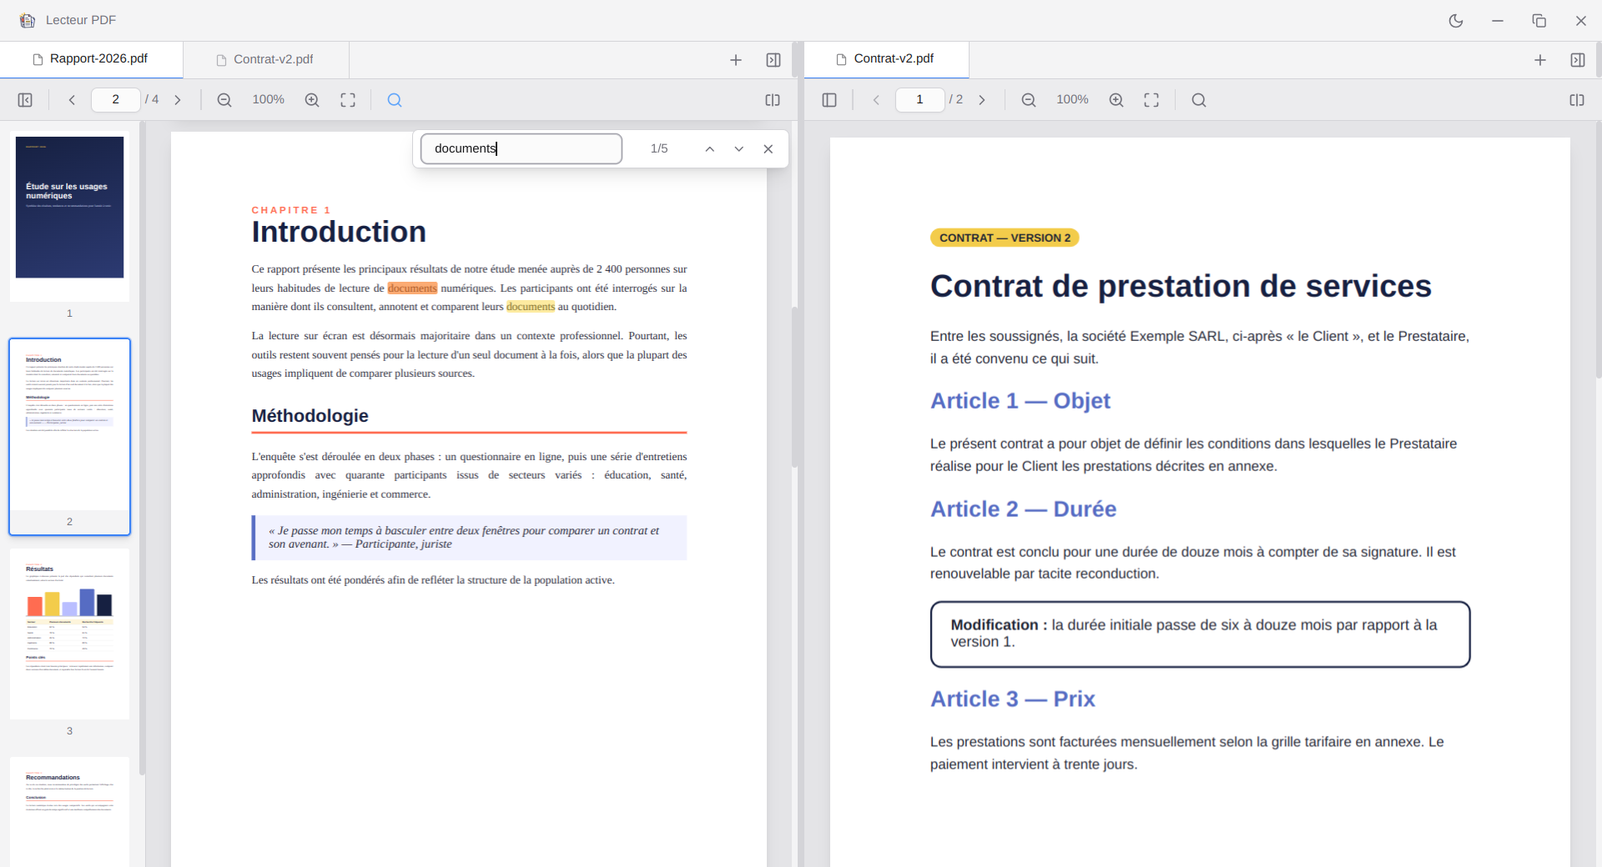
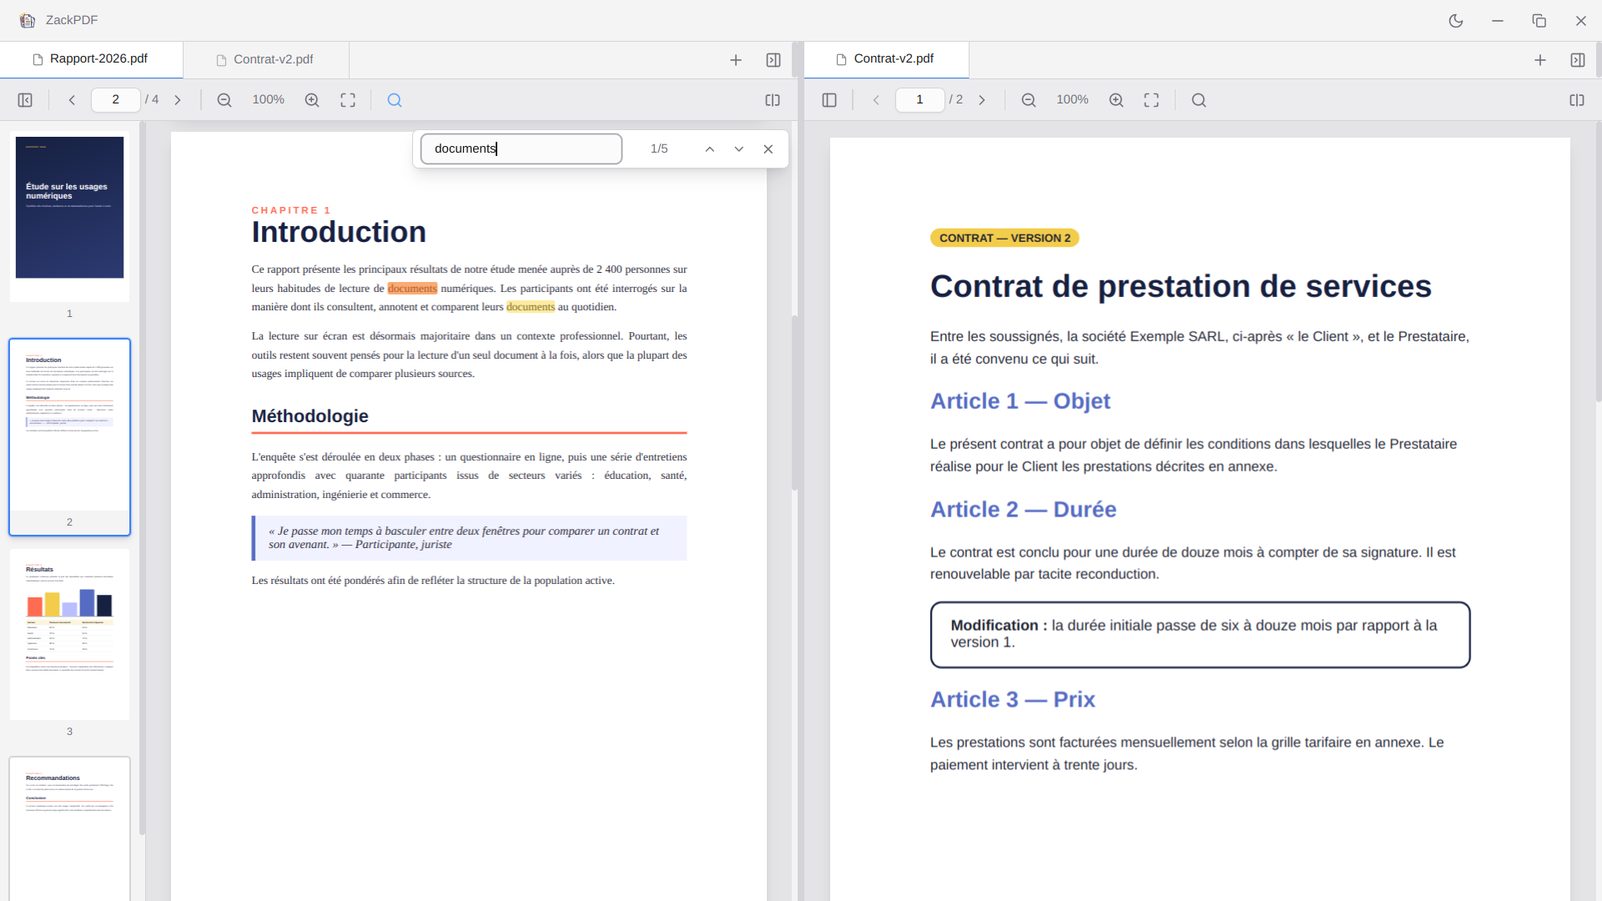
feat: renommer l'application en ZackPDF
Nom affiché, paquets (ZackPDF-*.exe/.dmg/.AppImage, zackpdf_*.deb,
zackpdf.*.rpm), identifiant d'application, site, documentation et
adresses du dépôt. Nouvelles captures d'écran. Version 1.0.1.

diff --git a/website/index.html b/website/index.html
@@ -3,11 +3,11 @@
 <head>
   <meta charset="utf-8">
   <meta name="viewport" content="width=device-width, initial-scale=1">
-  <title>Lecteur PDF — gratuit et open source</title>
-  <meta name="description" content="Lecteur PDF gratuit et open source pour Windows, macOS et Linux. Onglets, panneaux côte à côte, recherche dans tout le document et reprise de lecture.">
-  <meta property="og:title" content="Lecteur PDF — gratuit et open source">
+  <title>ZackPDF — lecteur PDF gratuit et open source</title>
+  <meta name="description" content="ZackPDF, le lecteur PDF gratuit et open source pour Windows, macOS et Linux. Onglets, panneaux côte à côte, recherche dans tout le document et reprise de lecture.">
+  <meta property="og:title" content="ZackPDF — lecteur PDF gratuit et open source">
   <meta property="og:description" content="Lisez et comparez vos PDF côte à côte. Gratuit, sans compte, pour Windows, macOS et Linux.">
-  <meta property="og:image" content="https://codebydarknet.github.io/lecteur-pdf/assets/capture-sombre.png">
+  <meta property="og:image" content="https://codebydarknet.github.io/zackpdf/assets/capture-sombre.png">
   <meta property="og:type" content="website">
   <link rel="icon" type="image/svg+xml" href="assets/logo.svg">
   <link rel="icon" type="image/png" sizes="32x32" href="assets/favicon-32.png">
@@ -166,11 +166,11 @@
 <body>
   <nav>
     <div class="wrap">
-      <a class="brand" href="#"><img src="assets/logo.svg" alt="">Lecteur PDF</a>
+      <a class="brand" href="#"><img src="assets/logo.svg" alt="">ZackPDF</a>
       <div class="links">
         <a class="optional" href="#fonctionnalites">Fonctionnalités</a>
         <a class="optional" href="#faq">FAQ</a>
-        <a href="https://github.com/codeByDarknet/lecteur-pdf">GitHub</a>
+        <a href="https://github.com/codeByDarknet/zackpdf">GitHub</a>
         <a class="btn btn-primary" style="padding:8px 16px;font-size:14px" href="#telecharger">Télécharger</a>
       </div>
     </div>
@@ -178,7 +178,7 @@
 
   <header class="hero">
     <div class="wrap">
-      <img class="logo" src="assets/logo.svg" alt="Logo de Lecteur PDF">
+      <img class="logo" src="assets/logo.svg" alt="Logo de ZackPDF">
       <span class="pill">Gratuit · Open source · Sans compte</span>
       <h1>Lisez vos PDF,<br><mark>côte à côte</mark>.</h1>
       <p class="lead">Un lecteur PDF rapide et léger, avec des onglets, des panneaux multiples et la recherche dans tout le document. Pour Windows, macOS et Linux.</p>
@@ -187,7 +187,7 @@
           <svg viewBox="0 0 24 24" fill="none" stroke="currentColor" stroke-width="2.5" stroke-linecap="round" stroke-linejoin="round"><path d="M12 3v12"/><path d="m7 10 5 5 5-5"/><path d="M5 21h14"/></svg>
           <span id="main-download-label">Télécharger gratuitement</span>
         </a>
-        <a class="btn btn-ghost" href="https://github.com/codeByDarknet/lecteur-pdf">
+        <a class="btn btn-ghost" href="https://github.com/codeByDarknet/zackpdf">
           <svg viewBox="0 0 24 24" fill="currentColor"><path d="M12 .5a11.5 11.5 0 0 0-3.64 22.41c.58.1.79-.25.79-.56v-2c-3.2.7-3.88-1.37-3.88-1.37-.53-1.33-1.28-1.69-1.28-1.69-1.05-.71.08-.7.08-.7 1.16.08 1.77 1.19 1.77 1.19 1.03 1.77 2.7 1.26 3.36.96.1-.75.4-1.26.73-1.55-2.55-.29-5.24-1.28-5.24-5.69 0-1.26.45-2.29 1.19-3.1-.12-.29-.52-1.46.11-3.05 0 0 .97-.31 3.17 1.18a11 11 0 0 1 5.77 0c2.2-1.49 3.17-1.18 3.17-1.18.63 1.59.23 2.76.11 3.05.74.81 1.19 1.84 1.19 3.1 0 4.42-2.7 5.39-5.26 5.68.41.36.78 1.06.78 2.14v3.17c0 .31.21.67.8.56A11.5 11.5 0 0 0 12 .5Z"/></svg>
           Voir le code source
         </a>
@@ -195,8 +195,8 @@
       <p class="version" id="version">Windows · macOS · Linux</p>
 
       <div class="shot">
-        <img class="dark" src="assets/capture-sombre.png" width="1920" height="1040" alt="Lecteur PDF en thème sombre : deux documents affichés côte à côte avec les miniatures">
-        <img class="light" src="assets/capture-clair.png" width="1920" height="1040" alt="Lecteur PDF en thème clair : recherche d'un mot surligné dans le document">
+        <img class="dark" src="assets/capture-sombre.png" width="1920" height="1080" alt="ZackPDF en thème sombre : deux documents affichés côte à côte avec les miniatures">
+        <img class="light" src="assets/capture-clair.png" width="1920" height="1080" alt="ZackPDF en thème clair : recherche d'un mot surligné dans le document">
       </div>
     </div>
   </header>
@@ -270,11 +270,11 @@
             <svg viewBox="0 0 24 24" fill="currentColor"><path d="M3 5.5 10 4.5v7H3zM11 4.3 21 3v8.5H11zM3 12.5h7v7l-7-1zM11 12.5h10V21l-10-1.4z"/></svg>
             <h3>Windows</h3><span class="badge">Votre système</span>
           </header>
-          <a class="dl" data-file="Lecteur-PDF-Windows-Setup.exe">
+          <a class="dl" data-file="ZackPDF-Windows-Setup.exe">
             <div><strong>Installateur</strong><span>Windows 10 et 11 · 64 bits · .exe</span></div>
             <svg viewBox="0 0 24 24" fill="none" stroke="currentColor" stroke-width="2.5" stroke-linecap="round" stroke-linejoin="round"><path d="M12 3v12"/><path d="m7 10 5 5 5-5"/><path d="M5 21h14"/></svg>
           </a>
-          <a class="dl" data-file="Lecteur-PDF-Windows-Portable.exe">
+          <a class="dl" data-file="ZackPDF-Windows-Portable.exe">
             <div><strong>Version portable</strong><span>Sans installation, à lancer depuis une clé USB</span></div>
             <svg viewBox="0 0 24 24" fill="none" stroke="currentColor" stroke-width="2.5" stroke-linecap="round" stroke-linejoin="round"><path d="M12 3v12"/><path d="m7 10 5 5 5-5"/><path d="M5 21h14"/></svg>
           </a>
@@ -286,15 +286,15 @@
             <svg viewBox="0 0 24 24" fill="currentColor"><path d="M16.4 12.6c0-2.6 2.1-3.8 2.2-3.9-1.2-1.8-3.1-2-3.7-2-1.6-.2-3.1.9-3.9.9-.8 0-2-.9-3.4-.9-1.7 0-3.3 1-4.2 2.6-1.8 3.1-.5 7.7 1.3 10.2.9 1.2 1.9 2.6 3.2 2.6 1.3-.1 1.8-.8 3.3-.8 1.6 0 2 .8 3.4.8 1.4 0 2.3-1.3 3.1-2.5 1-1.4 1.4-2.8 1.4-2.9 0 0-2.7-1-2.7-4.1ZM13.9 4.9c.7-.9 1.2-2 1.1-3.2-1 0-2.3.7-3 1.6-.7.8-1.2 2-1.1 3.1 1.1.1 2.3-.6 3-1.5Z"/></svg>
             <h3>macOS</h3><span class="badge">Votre système</span>
           </header>
-          <a class="dl" data-file="Lecteur-PDF-macOS-arm64.dmg">
+          <a class="dl" data-file="ZackPDF-macOS-arm64.dmg">
             <div><strong>Apple Silicon</strong><span>Mac M1, M2, M3, M4… · .dmg</span></div>
             <svg viewBox="0 0 24 24" fill="none" stroke="currentColor" stroke-width="2.5" stroke-linecap="round" stroke-linejoin="round"><path d="M12 3v12"/><path d="m7 10 5 5 5-5"/><path d="M5 21h14"/></svg>
           </a>
-          <a class="dl" data-file="Lecteur-PDF-macOS-x64.dmg">
+          <a class="dl" data-file="ZackPDF-macOS-x64.dmg">
             <div><strong>Intel</strong><span>Mac avec processeur Intel · .dmg</span></div>
             <svg viewBox="0 0 24 24" fill="none" stroke="currentColor" stroke-width="2.5" stroke-linecap="round" stroke-linejoin="round"><path d="M12 3v12"/><path d="m7 10 5 5 5-5"/><path d="M5 21h14"/></svg>
           </a>
-          <p class="hint">L'application n'est pas signée par Apple. Au premier lancement : clic droit sur l'app → <b>Ouvrir</b>. Si macOS indique qu'elle est endommagée, lancez dans le Terminal : <code>xattr -cr "/Applications/Lecteur PDF.app"</code></p>
+          <p class="hint">L'application n'est pas signée par Apple. Au premier lancement : clic droit sur l'app → <b>Ouvrir</b>. Si macOS indique qu'elle est endommagée, lancez dans le Terminal : <code>xattr -cr "/Applications/ZackPDF.app"</code></p>
         </article>
 
         <article class="platform" data-os="linux">
@@ -302,26 +302,26 @@
             <svg viewBox="0 0 24 24" fill="currentColor"><path d="M12 2c-2.2 0-3.6 1.8-3.6 4.3 0 1.3.2 2.2-.5 3.4-.9 1.4-2.6 3.6-2.9 6-.2 1.3.2 2.2.8 2.7-.4.5-1 1.2-.6 1.9.5.9 2.4.4 3.6.9 1.2.5 2.7.9 3.6-.2h.4c.9 1.1 2.4.7 3.6.2 1.2-.5 3.1 0 3.6-.9.4-.7-.2-1.4-.6-1.9.6-.5 1-1.4.8-2.7-.3-2.4-2-4.6-2.9-6-.7-1.2-.5-2.1-.5-3.4C15.6 3.8 14.2 2 12 2Zm-1.5 4.2c.4 0 .7.5.7 1.1 0 .6-.3 1.1-.7 1.1s-.7-.5-.7-1.1c0-.6.3-1.1.7-1.1Zm3 0c.4 0 .7.5.7 1.1 0 .6-.3 1.1-.7 1.1s-.7-.5-.7-1.1c0-.6.3-1.1.7-1.1ZM12 9.3c.9 0 2.2.6 2.2 1.1 0 .4-1.3 1.2-2.2 1.2s-2.2-.8-2.2-1.2c0-.5 1.3-1.1 2.2-1.1Z"/></svg>
             <h3>Linux</h3><span class="badge">Votre système</span>
           </header>
-          <a class="dl" data-file="Lecteur-PDF-Linux-x86_64.AppImage">
+          <a class="dl" data-file="ZackPDF-Linux-x86_64.AppImage">
             <div><strong>AppImage</strong><span>Toutes les distributions · sans installation</span></div>
             <svg viewBox="0 0 24 24" fill="none" stroke="currentColor" stroke-width="2.5" stroke-linecap="round" stroke-linejoin="round"><path d="M12 3v12"/><path d="m7 10 5 5 5-5"/><path d="M5 21h14"/></svg>
           </a>
-          <a class="dl" data-file="lecteur-pdf_amd64.deb">
+          <a class="dl" data-file="zackpdf_amd64.deb">
             <div><strong>.deb</strong><span>Ubuntu, Debian, Linux Mint, Pop!_OS…</span></div>
             <svg viewBox="0 0 24 24" fill="none" stroke="currentColor" stroke-width="2.5" stroke-linecap="round" stroke-linejoin="round"><path d="M12 3v12"/><path d="m7 10 5 5 5-5"/><path d="M5 21h14"/></svg>
           </a>
-          <a class="dl" data-file="lecteur-pdf.x86_64.rpm">
+          <a class="dl" data-file="zackpdf.x86_64.rpm">
             <div><strong>.rpm</strong><span>Fedora, openSUSE, RHEL…</span></div>
             <svg viewBox="0 0 24 24" fill="none" stroke="currentColor" stroke-width="2.5" stroke-linecap="round" stroke-linejoin="round"><path d="M12 3v12"/><path d="m7 10 5 5 5-5"/><path d="M5 21h14"/></svg>
           </a>
-          <a class="dl" data-file="Lecteur-PDF-Linux-x64.tar.gz">
+          <a class="dl" data-file="ZackPDF-Linux-x64.tar.gz">
             <div><strong>.tar.gz</strong><span>Archive pour Arch et les autres distributions</span></div>
             <svg viewBox="0 0 24 24" fill="none" stroke="currentColor" stroke-width="2.5" stroke-linecap="round" stroke-linejoin="round"><path d="M12 3v12"/><path d="m7 10 5 5 5-5"/><path d="M5 21h14"/></svg>
           </a>
-          <p class="hint">AppImage : rendez le fichier exécutable avec <code>chmod +x Lecteur-PDF-Linux-x86_64.AppImage</code> puis lancez-le.</p>
+          <p class="hint">AppImage : rendez le fichier exécutable avec <code>chmod +x ZackPDF-Linux-x86_64.AppImage</code> puis lancez-le.</p>
         </article>
       </div>
-      <p class="all-releases">Toutes les versions et les sommes de contrôle SHA-256 sont sur la <a href="https://github.com/codeByDarknet/lecteur-pdf/releases">page des releases GitHub</a>.</p>
+      <p class="all-releases">Toutes les versions et les sommes de contrôle SHA-256 sont sur la <a href="https://github.com/codeByDarknet/zackpdf/releases">page des releases GitHub</a>.</p>
     </div>
   </section>
 
@@ -330,15 +330,15 @@
       <div>
         <span class="pill">Licence MIT</span>
         <h2>Open source, pour de vrai</h2>
-        <p>Le code de Lecteur PDF est public sur GitHub. Vous pouvez le lire, le modifier, l'améliorer et le redistribuer librement. Vos documents restent sur votre ordinateur : l'application ne collecte rien et n'envoie rien.</p>
+        <p>Le code de ZackPDF est public sur GitHub. Vous pouvez le lire, le modifier, l'améliorer et le redistribuer librement. Vos documents restent sur votre ordinateur : l'application ne collecte rien et n'envoie rien.</p>
         <div class="cta" style="justify-content:flex-start;margin-top:26px">
-          <a class="btn btn-primary" href="https://github.com/codeByDarknet/lecteur-pdf">Contribuer sur GitHub</a>
-          <a class="btn btn-ghost" href="https://github.com/codeByDarknet/lecteur-pdf/issues/new/choose">Signaler un bug</a>
+          <a class="btn btn-primary" href="https://github.com/codeByDarknet/zackpdf">Contribuer sur GitHub</a>
+          <a class="btn btn-ghost" href="https://github.com/codeByDarknet/zackpdf/issues/new/choose">Signaler un bug</a>
         </div>
       </div>
       <pre class="terminal"><span class="c"># Lancer le projet en local</span>
-<span class="p">$</span> git clone https://github.com/codeByDarknet/lecteur-pdf
-<span class="p">$</span> cd lecteur-pdf
+<span class="p">$</span> git clone https://github.com/codeByDarknet/zackpdf
+<span class="p">$</span> cd zackpdf
 <span class="p">$</span> npm install
 <span class="p">$</span> npm run dev</pre>
     </div>
@@ -350,7 +350,7 @@
       <div class="faq">
         <details>
           <summary>Est-ce vraiment gratuit ?</summary>
-          <p>Oui. Lecteur PDF est gratuit, sans publicité, sans abonnement et sans compte. Le code est sous licence MIT.</p>
+          <p>Oui. ZackPDF est gratuit, sans publicité, sans abonnement et sans compte. Le code est sous licence MIT.</p>
         </details>
         <details>
           <summary>Mes documents sont-ils envoyés quelque part ?</summary>
@@ -358,7 +358,7 @@
         </details>
         <details>
           <summary>Comment en faire mon lecteur PDF par défaut ?</summary>
-          <p>Après l'installation, faites un clic droit sur un PDF → <b>Ouvrir avec</b> → <b>Lecteur PDF</b>, et cochez l'option pour toujours l'utiliser. Sous Windows, passez par <b>Paramètres → Applications → Applications par défaut</b>.</p>
+          <p>Après l'installation, faites un clic droit sur un PDF → <b>Ouvrir avec</b> → <b>ZackPDF</b>, et cochez l'option pour toujours l'utiliser. Sous Windows, passez par <b>Paramètres → Applications → Applications par défaut</b>.</p>
         </details>
         <details>
           <summary>Pourquoi mon système affiche-t-il un avertissement ?</summary>
@@ -375,12 +375,12 @@
   <footer>
     <div class="wrap">
       <span>© 2026 Abdoul Razack Ouedraogo · Licence MIT</span>
-      <span><a href="https://github.com/codeByDarknet/lecteur-pdf">Code source</a> · <a href="https://github.com/codeByDarknet/lecteur-pdf/releases">Versions</a> · <a href="https://github.com/codeByDarknet/lecteur-pdf/issues">Signaler un bug</a></span>
+      <span><a href="https://github.com/codeByDarknet/zackpdf">Code source</a> · <a href="https://github.com/codeByDarknet/zackpdf/releases">Versions</a> · <a href="https://github.com/codeByDarknet/zackpdf/issues">Signaler un bug</a></span>
     </div>
   </footer>
 
   <script>
-    const REPO = 'codeByDarknet/lecteur-pdf'
+    const REPO = 'codeByDarknet/zackpdf'
     const latest = (file) => `https://github.com/${REPO}/releases/latest/download/${file}`
 
     document.querySelectorAll('.dl[data-file]').forEach((a) => { a.href = latest(a.dataset.file) })
@@ -397,7 +397,7 @@
       card.classList.add('detected')
       card.parentElement.prepend(card)
       document.getElementById('main-download-label').textContent = labels[os]
-      if (os === 'windows') document.getElementById('main-download').href = latest('Lecteur-PDF-Windows-Setup.exe')
+      if (os === 'windows') document.getElementById('main-download').href = latest('ZackPDF-Windows-Setup.exe')
     }
 
     // Afficher le numéro de la dernière version publiée

diff --git a/src/components/TitleBar.tsx b/src/components/TitleBar.tsx
@@ -25,7 +25,7 @@ export function TitleBar() {
       {/* App title / drag region */}
       <div className="flex items-center gap-2 px-4 flex-1" style={{ WebkitAppRegion: 'drag' } as React.CSSProperties}>
         <img src="./pdf_multipanel_logo.svg" alt="" width={20} height={20} draggable={false} />
-        <span className="text-xs text-muted-foreground font-medium">Lecteur PDF</span>
+        <span className="text-xs text-muted-foreground font-medium">ZackPDF</span>
       </div>
 
       {/* Theme toggle & Window controls */}

diff --git a/index.html b/index.html
@@ -4,7 +4,7 @@
     <meta charset="UTF-8" />
     <meta name="viewport" content="width=device-width, initial-scale=1.0" />
     <link rel="icon" type="image/svg+xml" href="./pdf_multipanel_logo.svg" />
-    <title>Lecteur PDF</title>
+    <title>ZackPDF</title>
   </head>
   <body class="bg-background text-foreground overflow-hidden">
     <div id="root"></div>

diff --git a/src/store/useAppStore.ts b/src/store/useAppStore.ts
@@ -281,7 +281,7 @@ export const useAppStore = create<AppState>()(persist((set, get) => ({
     }))
   },
 }), {
-  name: 'lecteur-pdf-session',
+  name: 'zackpdf-session',
   version: 1,
   partialize: (state): PersistedSession => ({
     panels: sessionPanels(state.panels),

diff --git a/README.md b/README.md
@@ -1,8 +1,8 @@
 <p align="center">
-  <img src="website/assets/logo.svg" width="128" height="128" alt="Logo de Lecteur PDF">
+  <img src="website/assets/logo.svg" width="128" height="128" alt="Logo de ZackPDF">
 </p>
 
-<h1 align="center">Lecteur PDF</h1>
+<h1 align="center">ZackPDF</h1>
 
 <p align="center">
   Un lecteur PDF gratuit et open source, avec onglets et panneaux côte à côte.<br>
@@ -10,18 +10,18 @@
 </p>
 
 <p align="center">
-  <a href="https://codebydarknet.github.io/lecteur-pdf/"><b>Site et téléchargements</b></a> ·
-  <a href="https://github.com/codeByDarknet/lecteur-pdf/releases/latest">Dernière version</a> ·
-  <a href="https://github.com/codeByDarknet/lecteur-pdf/issues/new/choose">Signaler un bug</a>
+  <a href="https://codebydarknet.github.io/zackpdf/"><b>Site et téléchargements</b></a> ·
+  <a href="https://github.com/codeByDarknet/zackpdf/releases/latest">Dernière version</a> ·
+  <a href="https://github.com/codeByDarknet/zackpdf/issues/new/choose">Signaler un bug</a>
 </p>
 
 <p align="center">
-  <a href="https://github.com/codeByDarknet/lecteur-pdf/actions/workflows/ci.yml"><img src="https://github.com/codeByDarknet/lecteur-pdf/actions/workflows/ci.yml/badge.svg" alt="CI"></a>
-  <a href="https://github.com/codeByDarknet/lecteur-pdf/releases/latest"><img src="https://img.shields.io/github/v/release/codeByDarknet/lecteur-pdf?label=version" alt="Version"></a>
+  <a href="https://github.com/codeByDarknet/zackpdf/actions/workflows/ci.yml"><img src="https://github.com/codeByDarknet/zackpdf/actions/workflows/ci.yml/badge.svg" alt="CI"></a>
+  <a href="https://github.com/codeByDarknet/zackpdf/releases/latest"><img src="https://img.shields.io/github/v/release/codeByDarknet/zackpdf?label=version" alt="Version"></a>
   <a href="LICENSE"><img src="https://img.shields.io/badge/licence-MIT-blue" alt="Licence MIT"></a>
 </p>
 
-![Lecteur PDF : deux documents affichés côte à côte](website/assets/capture-sombre.png)
+![ZackPDF : deux documents affichés côte à côte](website/assets/capture-sombre.png)
 
 ## Fonctionnalités
 
@@ -37,40 +37,41 @@
 
 ## Installation
 
-Téléchargez la version pour votre système sur le [site](https://codebydarknet.github.io/lecteur-pdf/#telecharger) ou dans les [releases GitHub](https://github.com/codeByDarknet/lecteur-pdf/releases/latest).
+Téléchargez la version pour votre système sur le [site](https://codebydarknet.github.io/zackpdf/#telecharger) ou dans les [releases GitHub](https://github.com/codeByDarknet/zackpdf/releases/latest).
 
-| Système | Fichier |
-|---|---|
-| Windows 10/11 | `Lecteur-PDF-Windows-Setup.exe` (installateur) ou `Lecteur-PDF-Windows-Portable.exe` |
-| macOS Apple Silicon | `Lecteur-PDF-macOS-arm64.dmg` |
-| macOS Intel | `Lecteur-PDF-macOS-x64.dmg` |
-| Ubuntu, Debian, Mint… | `lecteur-pdf_amd64.deb` |
-| Fedora, openSUSE… | `lecteur-pdf.x86_64.rpm` |
-| Toute distribution Linux | `Lecteur-PDF-Linux-x86_64.AppImage` ou `Lecteur-PDF-Linux-x64.tar.gz` |
+| Système                 | Fichier                                                                                  |
+| ------------------------ | ---------------------------------------------------------------------------------------- |
+| Windows 10/11            | `ZackPDF-Windows-Setup.exe` (installateur) ou `ZackPDF-Windows-Portable.exe` |
+| macOS Apple Silicon      | `ZackPDF-macOS-arm64.dmg`                                                          |
+| macOS Intel              | `ZackPDF-macOS-x64.dmg`                                                            |
+| Ubuntu, Debian, Mint…   | `zackpdf_amd64.deb`                                                                |
+| Fedora, openSUSE…       | `zackpdf.x86_64.rpm`                                                               |
+| Toute distribution Linux | `ZackPDF-Linux-x86_64.AppImage` ou `ZackPDF-Linux-x64.tar.gz`                |
 
 > **Applications non signées.** Les certificats Apple et Microsoft sont payants et l'application n'en a pas encore.
+>
 > - **Windows** : « Windows a protégé votre ordinateur » → *Informations complémentaires* → *Exécuter quand même*.
-> - **macOS** : clic droit sur l'app → *Ouvrir*. Si macOS la dit endommagée : `xattr -cr "/Applications/Lecteur PDF.app"`.
+> - **macOS** : clic droit sur l'app → *Ouvrir*. Si macOS la dit endommagée : `xattr -cr "/Applications/ZackPDF.app"`.
 
 ## Développement
 
 Prérequis : [Node.js](https://nodejs.org/) 20 ou plus récent.
 
 ```bash
-git clone https://github.com/codeByDarknet/lecteur-pdf.git
-cd lecteur-pdf
+git clone https://github.com/codeByDarknet/zackpdf.git
+cd zackpdf
 npm install
 npm run dev          # lance l'application avec rechargement à chaud
 ```
 
-| Commande | Rôle |
-|---|---|
-| `npm run dev` | Lance l'application en développement |
-| `npm run typecheck` | Vérifie les types TypeScript |
-| `npm run build` | Compile l'interface et le processus principal |
-| `npm run dist:linux` | Construit les paquets Linux dans `release/` |
-| `npm run dist:win` | Construit les paquets Windows |
-| `npm run dist:mac` | Construit les paquets macOS (sur un Mac) |
+| Commande               | Rôle                                         |
+| ---------------------- | --------------------------------------------- |
+| `npm run dev`        | Lance l'application en développement         |
+| `npm run typecheck`  | Vérifie les types TypeScript                 |
+| `npm run build`      | Compile l'interface et le processus principal |
+| `npm run dist:linux` | Construit les paquets Linux dans `release/`  |
+| `npm run dist:win`   | Construit les paquets Windows                 |
+| `npm run dist:mac`   | Construit les paquets macOS (sur un Mac)      |
 
 ### Technologies
 

diff --git a/CONTRIBUTING.md b/CONTRIBUTING.md
@@ -1,10 +1,10 @@
-# Contribuer à Lecteur PDF
+# Contribuer à ZackPDF
 
-Merci de vouloir améliorer Lecteur PDF ! Toutes les contributions sont les bienvenues : signalement de bugs, idées, corrections, traductions, documentation.
+Merci de vouloir améliorer ZackPDF ! Toutes les contributions sont les bienvenues : signalement de bugs, idées, corrections, traductions, documentation.
 
 ## Signaler un bug ou proposer une idée
 
-Ouvrez une [issue](https://github.com/codeByDarknet/lecteur-pdf/issues/new/choose) en choisissant le modèle adapté. Pour un bug, précisez votre système, la version de l'application et les étapes pour le reproduire.
+Ouvrez une [issue](https://github.com/codeByDarknet/zackpdf/issues/new/choose) en choisissant le modèle adapté. Pour un bug, précisez votre système, la version de l'application et les étapes pour le reproduire.
 
 Pour une faille de sécurité, suivez plutôt la [politique de sécurité](SECURITY.md).
 

diff --git a/CHANGELOG.md b/CHANGELOG.md
@@ -1,7 +1,13 @@
 # Historique des versions
 
-Toutes les évolutions notables de Lecteur PDF sont listées ici.
+Toutes les évolutions notables de ZackPDF sont listées ici.
 Le format suit [Keep a Changelog](https://keepachangelog.com/fr/1.1.0/) et le projet utilise le [versionnage sémantique](https://semver.org/lang/fr/).
+
+## [1.0.1] — 2026-10-14
+
+### Modifié
+
+- L'application s'appelle désormais **ZackPDF** (nom, paquets, site et dépôt GitHub)
 
 ## [1.0.0] — 2026-10-13
 
@@ -18,4 +24,5 @@ Première version publique.
 - Restauration de la session (onglets, panneaux, page courante) au redémarrage
 - Paquets pour Windows (installateur et portable), macOS (Apple Silicon et Intel) et Linux (AppImage, .deb, .rpm, .tar.gz)
 
-[1.0.0]: https://github.com/codeByDarknet/lecteur-pdf/releases/tag/v1.0.0
+[1.0.1]: https://github.com/codeByDarknet/zackpdf/releases/tag/v1.0.1
+[1.0.0]: https://github.com/codeByDarknet/zackpdf/releases/tag/v1.0.0

diff --git a/SECURITY.md b/SECURITY.md
@@ -8,7 +8,7 @@ Seule la dernière version publiée reçoit des correctifs de sécurité.
 
 Merci de **ne pas** ouvrir d'issue publique pour une faille de sécurité.
 
-Utilisez plutôt le [signalement privé de GitHub](https://github.com/codeByDarknet/lecteur-pdf/security/advisories/new), ou écrivez à **abdoulrazackouedraogo1@gmail.com** en décrivant :
+Utilisez plutôt le [signalement privé de GitHub](https://github.com/codeByDarknet/zackpdf/security/advisories/new), ou écrivez à **abdoulrazackouedraogo1@gmail.com** en décrivant :
 
 - le problème et son impact possible ;
 - les étapes ou le fichier PDF permettant de le reproduire ;
